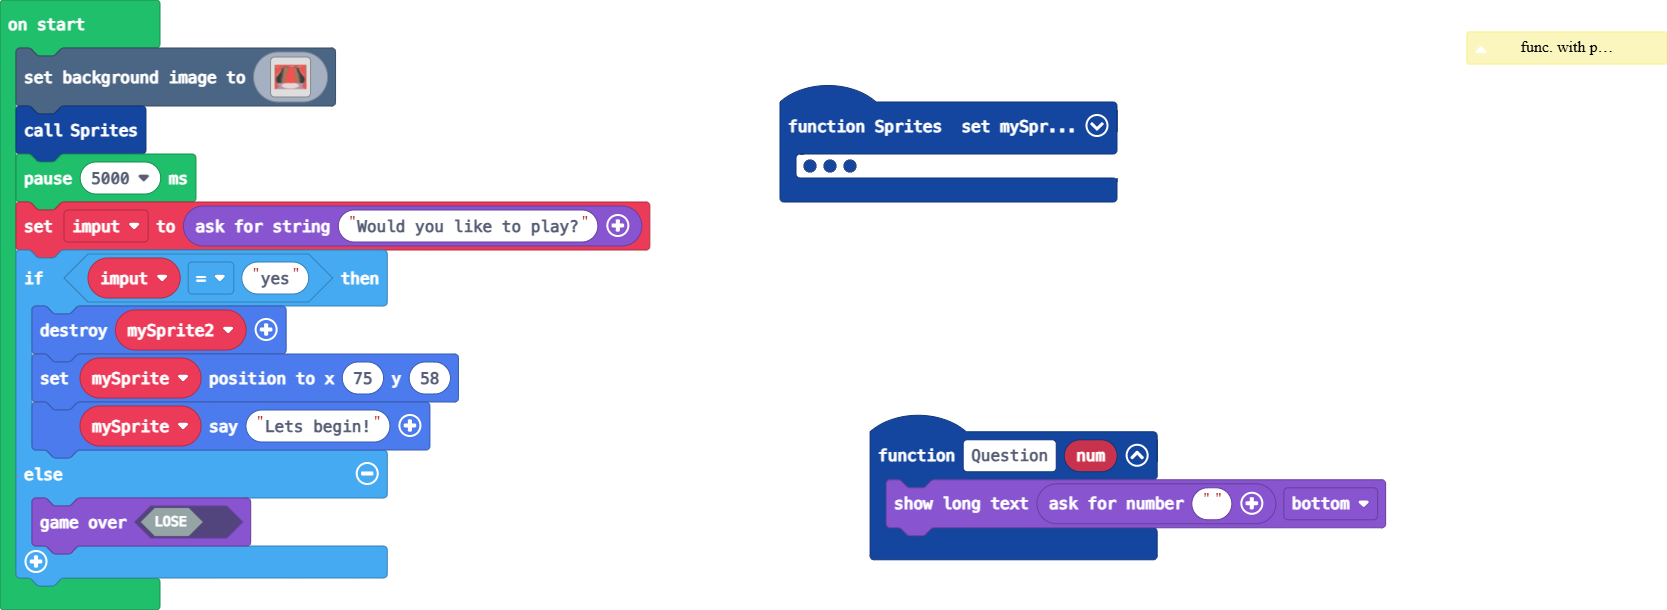
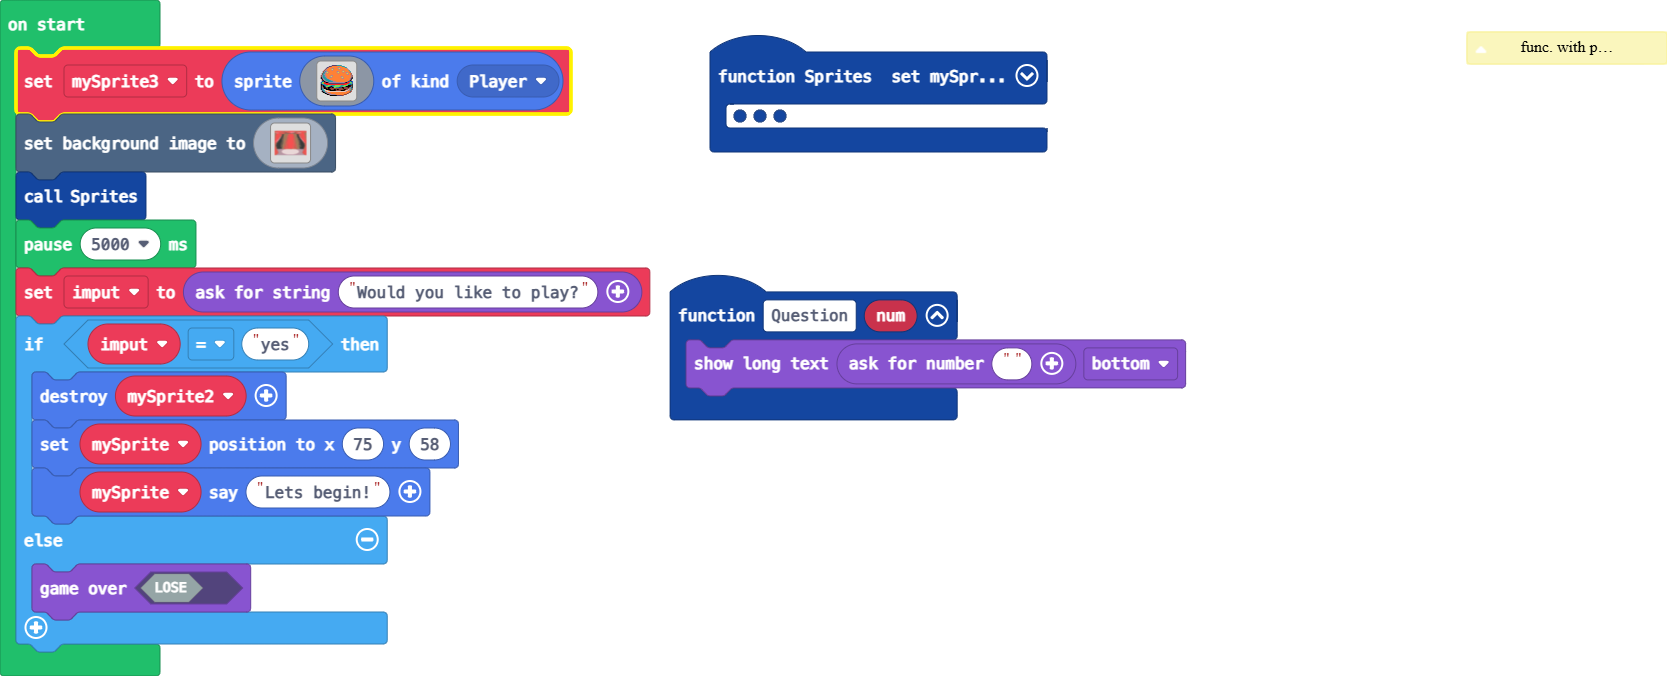
Update main.blocks, main.ts

diff --git a/main.ts b/main.ts
@@ -58,6 +58,40 @@ function Sprites () {
 }
 let mySprite: Sprite = null
 let mySprite2: Sprite = null
+let mySprite3 = sprites.create(img`
+    ...........ccccc66666...........
+    ........ccc4444444444666........
+    ......cc444444444bb4444466......
+    .....cb4444bb4444b5b444444b.....
+    ....eb4444b5b44444b44444444b....
+    ...ebb44444b4444444444b444446...
+    ..eb6bb444444444bb444b5b444446..
+    ..e6bb5b44444444b5b444b44bb44e..
+    .e66b4b4444444444b4444444b5b44e.
+    .e6bb444444444444444444444bb44e.
+    eb66b44444bb444444444444444444be
+    eb66bb444b5b44444444bb44444444be
+    fb666b444bb444444444b5b4444444bf
+    fcb666b44444444444444bb444444bcf
+    .fbb6666b44444444444444444444bf.
+    .efbb66666bb4444444444444444bfe.
+    .86fcbb66666bbb44444444444bcc688
+    8772effcbbbbbbbbbbbbbbbbcfc22778
+    87722222cccccccccccccccc22226678
+    f866622222222222222222222276686f
+    fef866677766667777776667777fffef
+    fbff877768f86777777666776fffffbf
+    fbeffeefffeff7766688effeeeefeb6f
+    f6bfffeffeeeeeeeeeeeeefeeeeebb6e
+    f66ddfffffeeeffeffeeeeeffeedb46e
+    .c66ddd4effffffeeeeeffff4ddb46e.
+    .fc6b4dddddddddddddddddddb444ee.
+    ..ff6bb444444444444444444444ee..
+    ....ffbbbb4444444444444444ee....
+    ......ffebbbbbb44444444eee......
+    .........fffffffcccccee.........
+    ................................
+    `, SpriteKind.Player)
 scene.setBackgroundImage(img`
[2 lines of base64/hex data omitted]
